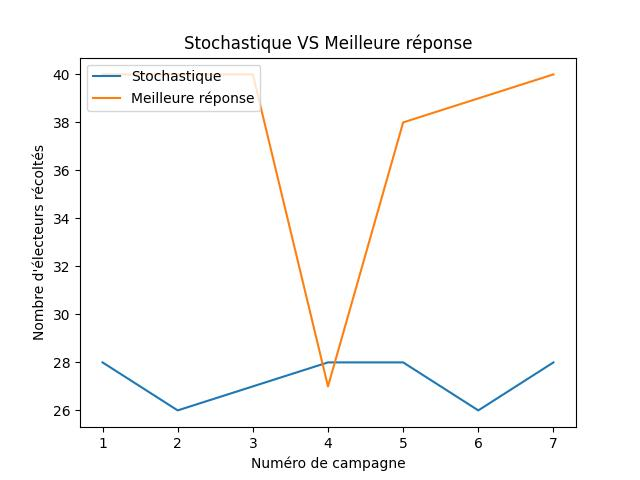
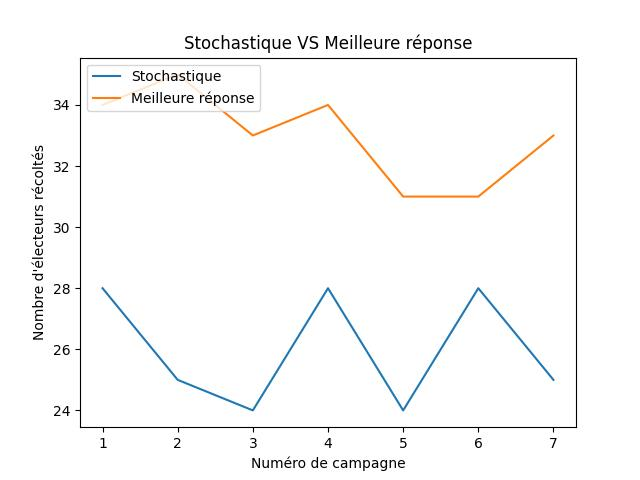
rendu final (bonne version)

diff --git a/src/graphiques.py b/src/graphiques.py
@@ -28,8 +28,8 @@ plt.savefig("../docs/resultats/aleatoireVStetu.jpg")
 plt.show()
 
 # aleatoire vs stochastique
-AVS1 = [24, 18, 22, 19, 24, 21, 24]
-AVS2 = [23, 21, 25, 26, 20, 21, 22]
+AVS1 = [22, 21, 26, 19, 20, 21, 21]
+AVS2 = [24, 23, 20, 26, 25, 21, 22]
 plt.plot(y, AVS1, label = "Aléatoire")
 plt.plot(y, AVS2, label = "Stochastique")
 plt.legend(loc = "upper left")
@@ -77,8 +77,8 @@ plt.savefig("../docs/resultats/tetuVStetu.jpg")
 plt.show()
 
 # tetu vs stochastique
-TVS1 = [28, 14, 25, 28, 28, 27, 14]
-TVS2 = [28, 26, 25, 28, 28, 28, 28]
+TVS1 = [28, 17, 14, 14, 16, 14, 15]
+TVS2 = [28, 28, 28, 28, 26, 28, 26]
 plt.plot(y, TVS1, label = "Tétu")
 plt.plot(y, TVS2, label = "Stochastique")
 plt.legend(loc = "upper left")
@@ -114,8 +114,8 @@ plt.show()
 
 
 # stochastique vs stochastique
-SVS1 = [25, 15, 27, 22, 25, 28, 27]
-SVS2 = [26, 17, 27, 23, 25, 27, 26]
+SVS1 = [18, 17, 17, 20, 19, 19, 18]
+SVS2 = [20, 18, 15, 18, 21, 18, 21]
 plt.plot(y, SVS1, label = "Stochastique")
 plt.plot(y, SVS2, label = "Stochastique")
 plt.legend(loc = "upper left")
@@ -126,8 +126,8 @@ plt.savefig("../docs/resultats/stochastiqueVSstochastique.jpg")
 plt.show()
 
 # stochastique vs meilleure reponse
-SVMR1 = [28, 26, 27, 28, 28, 26, 28]
-SVMR2 = [40, 40, 40, 27, 38, 39, 40]
+SVMR1 = [28, 25, 24, 28, 24, 28, 25]
+SVMR2 = [34, 35, 33, 34, 31, 31, 33]
 plt.plot(y, SVMR1, label = "Stochastique")
 plt.plot(y, SVMR2, label = "Meilleure réponse")
 plt.legend(loc = "upper left")
@@ -138,8 +138,8 @@ plt.savefig("../docs/resultats/stochastiqueVSmr.jpg")
 plt.show()
 
 # stochastique vs fictitious play
-SVF1 = [22, 22, 20, 20, 23, 22, 21]
-SVF2 = [22, 24, 20, 21, 20, 20, 24]
+SVF1 = [21, 21, 25, 22, 24, 25, 22]
+SVF2 = [23, 22, 23, 26, 23, 19, 20]
 plt.plot(y, SVF1, label = "Stochastique")
 plt.plot(y, SVF2, label = "Fictitious play")
 plt.legend(loc = "upper left")

diff --git a/src/withoutBudget.py b/src/withoutBudget.py
@@ -102,7 +102,7 @@ def stochastique(g, initStates, objectifs, equipe, k, lStoch, monCoup, coupAdver
             lStoch[tuple(monCoup)] = 0.5
     
     if monCoup != [] and coupAdvers != []:
-        if gagnant(monCoup, coupAdvers) == 2:
+        if gagnant(monCoup, coupAdvers) > gagnant(coupAdvers, monCoup):
             coup = tuple(monCoup)
             lStoch[coup] += 0.25
         else:

diff --git a/src/main.py b/src/main.py
@@ -44,7 +44,7 @@ def init(_boardname=None):
     game = Game('./Cartes/' + name + '.json', SpriteBuilder)
     game.O = Ontology(True, 'SpriteSheet-32x32/tiny_spritesheet_ontology.csv')
     game.populate_sprite_names(game.O)
-    game.fps = 20  # frames per second
+    game.fps = 5000  # frames per second
     game.mainiteration()
     player = game.player
     
